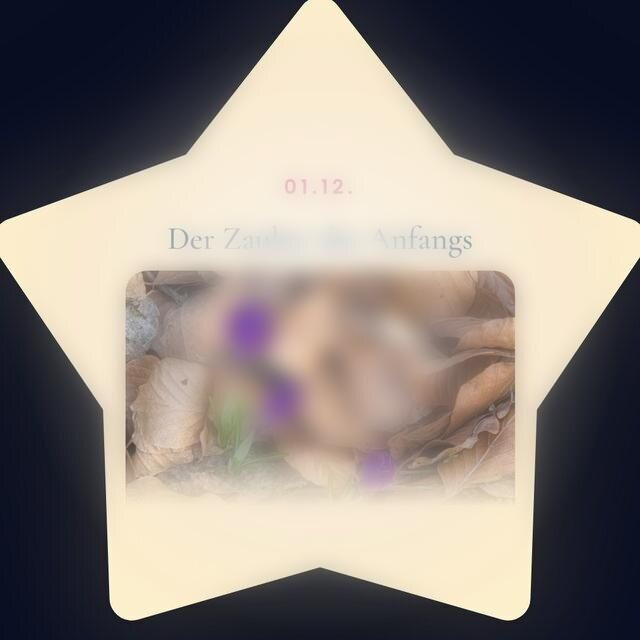
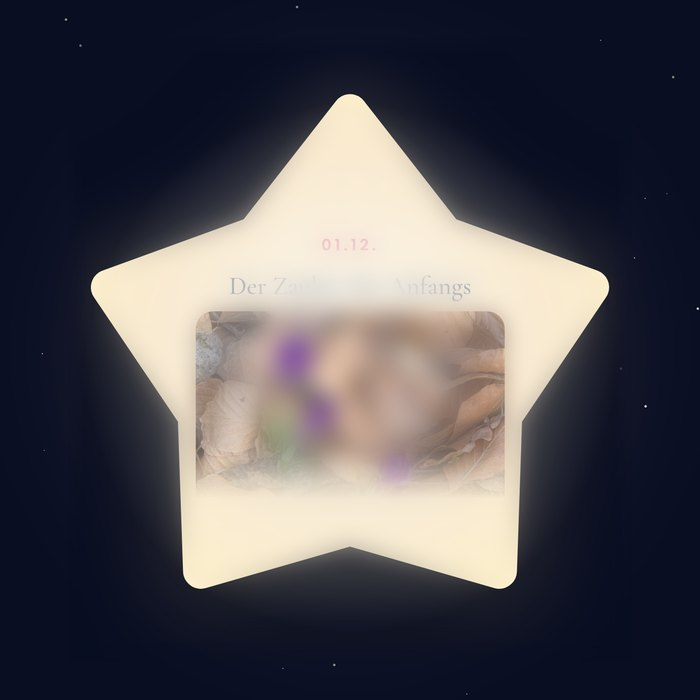
Sterneinblick: Stern mit Rand, sanftem Schein und Sternenhimmel
Claude-Session: https://claude.ai/code/session_01JhNVo5gAi9s48sBdPoEAot

diff --git a/public/index.html b/public/index.html
@@ -487,7 +487,7 @@
           <li>Deine Sterne bleiben Dir mindestens bis zum 27.01.2027</li>
           <li>Für Dich oder als Geschenk; ein Zugang gilt für eine Person</li>
         </ul>
-        <figure class="uni-peek"><img src="images/universe_einblick.jpg?v=2" width="640" height="640" loading="lazy" alt="Ein geöffneter Stern im yma universe: 1. Dezember, Der Zauber des Anfangs, mit Foto von Krokussen im Herbstlaub"><figcaption>Ein kleiner Blick in Deinen ersten Stern</figcaption></figure>
+        <figure class="uni-peek"><img src="images/universe_einblick.jpg?v=3" width="700" height="700" loading="lazy" alt="Ein geöffneter Stern im yma universe: 1. Dezember, Der Zauber des Anfangs, mit Foto von Krokussen im Herbstlaub"><figcaption>Ein kleiner Blick in Deinen ersten Stern</figcaption></figure>
         <a href="/universe/geschenk/" class="gift">Sterne verschenken →</a>
         <a href="https://buy.stripe.com/14AcN766I73ycig8HwbII03" target="_blank" rel="noopener" class="btn plan-cta-mobile">Jetzt buchen&nbsp;♡</a>
         <p class="ust-note">* Gemäß § 19 UStG wird keine Umsatzsteuer berechnet.</p>
